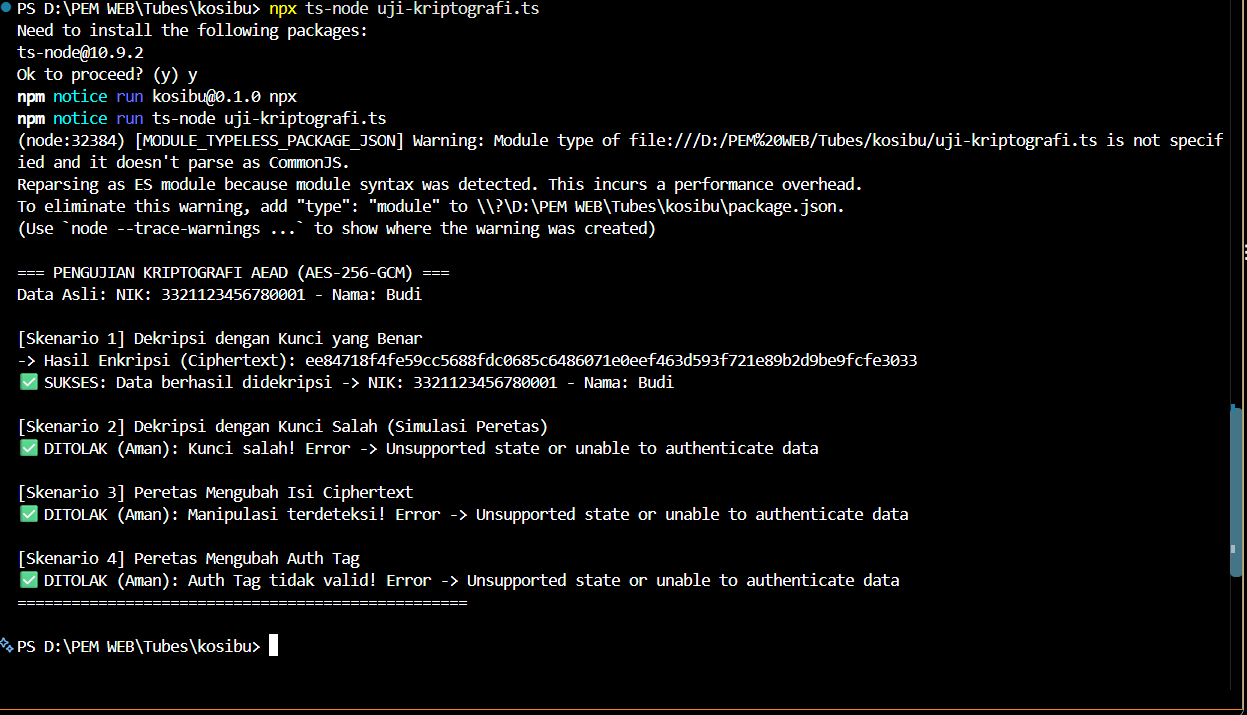
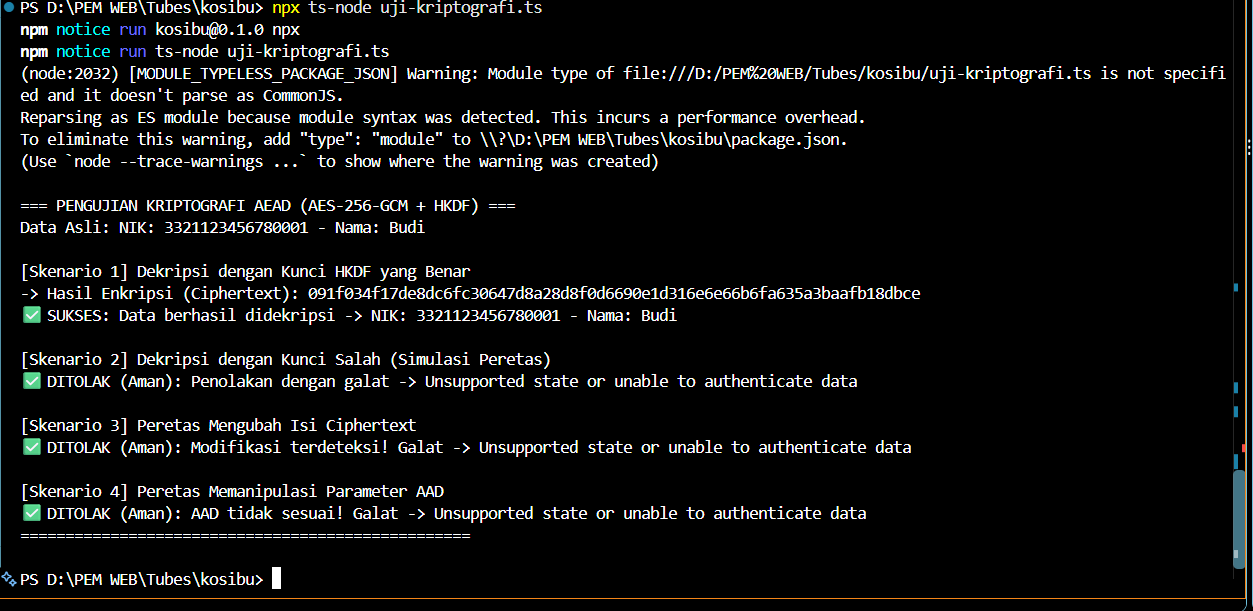
feat: penyelesaian Kriptografi Tugas 2 (AEAD, HKDF, uji skenario)

Changed region(s): [[0.0, 0.0, 1.0, 1.0], [0.0, 0.6841, 0.7314, 0.7463]]

diff --git a/uji-kriptografi.ts b/uji-kriptografi.ts
@@ -1,90 +1,108 @@
 import crypto from 'crypto';
 
-// 1. Persiapan Kunci (Harus 32 bytes / 256 bits untuk AES-256)
-const KUNCI_ASLI = crypto.randomBytes(32).toString('hex');
-const KUNCI_PALSU = crypto.randomBytes(32).toString('hex'); // Simulasi peretas menebak kunci
+// 1. Persiapan Kunci menggunakan CSPRNG
+// Di lingkungan produksi, nilai ini diambil dari process.env.MASTER_KEY
+const MASTER_KEY = crypto.randomBytes(32);
+const KUNCI_PALSU = crypto.randomBytes(32);
 
-// 2. Fungsi Enkripsi AEAD (AES-256-GCM)
-function enkripsi(teks: string, kunciHex: string) {
-  const kunci = Buffer.from(kunciHex, 'hex');
-  const iv = crypto.randomBytes(12); // Standar IV untuk GCM adalah 12 bytes
-  
-  const cipher = crypto.createCipheriv('aes-256-gcm', kunci, iv);
-  let terenkripsi = cipher.update(teks, 'utf8', 'hex');
-  terenkripsi += cipher.final('hex');
-  const authTag = cipher.getAuthTag();
-  
-  return {
-    iv: iv.toString('hex'),
-    terenkripsi: terenkripsi,
-    authTag: authTag.toString('hex')
-  };
+// 2. Fungsi Derivasi Kunci (HKDF) untuk Pemisahan Tujuan (Syarat Nilai K3)
+function dapatkanKunciTurunan(kunciMaster: Buffer, tujuan: string): Buffer {
+    // HKDF menggunakan SHA-256 untuk mengekstrak kunci 32-byte spesifik
+    const hasilHKDF = crypto.hkdfSync('sha256', kunciMaster, Buffer.alloc(0), tujuan, 32);
+    // Konversi ArrayBuffer ke Buffer agar TypeScript tidak protes
+    return Buffer.from(hasilHKDF);
 }
 
-// 3. Fungsi Dekripsi AEAD
-function dekripsi(data: { iv: string; terenkripsi: string; authTag: string }, kunciHex: string) {
-  const kunci = Buffer.from(kunciHex, 'hex');
-  const iv = Buffer.from(data.iv, 'hex');
-  const authTag = Buffer.from(data.authTag, 'hex');
-  
-  const decipher = crypto.createDecipheriv('aes-256-gcm', kunci, iv);
-  decipher.setAuthTag(authTag);
-  
-  let terdekripsi = decipher.update(data.terenkripsi, 'hex', 'utf8');
-  terdekripsi += decipher.final('utf8');
-  return terdekripsi;
+const KUNCI_ENKRIPSI = dapatkanKunciTurunan(MASTER_KEY, 'enkripsi-data-penyewa');
+const KUNCI_ENKRIPSI_PALSU = dapatkanKunciTurunan(KUNCI_PALSU, 'enkripsi-data-penyewa');
+
+// 3. Fungsi Enkripsi AEAD (AES-256-GCM) dengan Validasi dan Fail-Closed
+function enkripsi(teks: string, kunci: Buffer, aad: string = "konteks-kosibu") {
+    // Validasi Masukan (Fail-Closed)
+    if (!teks || typeof teks !== 'string' || teks.trim() === '') {
+        throw new Error("Masukan tidak valid: Teks harus berupa string dan tidak boleh kosong.");
+    }
+
+    const iv = crypto.randomBytes(12); // Nonce/IV unik dengan CSPRNG
+    const cipher = crypto.createCipheriv('aes-256-gcm', kunci, iv);
+    
+    // Menambahkan AAD
+    cipher.setAAD(Buffer.from(aad, 'utf8'));
+
+    let terenkripsi = cipher.update(teks, 'utf8', 'hex');
+    terenkripsi += cipher.final('hex');
+    const authTag = cipher.getAuthTag();
+
+    return {
+        iv: iv.toString('hex'),
+        terenkripsi: terenkripsi,
+        authTag: authTag.toString('hex'),
+        aad: aad
+    };
+}
+
+// 4. Fungsi Dekripsi AEAD
+function dekripsi(data: { iv: string; terenkripsi: string; authTag: string; aad: string }, kunci: Buffer) {
+    const iv = Buffer.from(data.iv, 'hex');
+    const authTag = Buffer.from(data.authTag, 'hex');
+
+    const decipher = crypto.createDecipheriv('aes-256-gcm', kunci, iv);
+    decipher.setAAD(Buffer.from(data.aad, 'utf8'));
+    decipher.setAuthTag(authTag);
+
+    let terdekripsi = decipher.update(data.terenkripsi, 'hex', 'utf8');
+    terdekripsi += decipher.final('utf8');
+    return terdekripsi;
 }
 
 // ==========================================
-// EKSEKUSI 4 SKENARIO PENGUJIAN
+// EKSEKUSI 4 SKENARIO PENGUJIAN (Syarat Nilai K4)
 // ==========================================
-console.log("\n=== PENGUJIAN KRIPTOGRAFI AEAD (AES-256-GCM) ===");
+console.log("\n=== PENGUJIAN KRIPTOGRAFI AEAD (AES-256-GCM + HKDF) ===");
 const dataSensitif = "NIK: 3321123456780001 - Nama: Budi";
 console.log("Data Asli:", dataSensitif);
 
 // Skenario 1: Normal (Sukses)
-console.log("\n[Skenario 1] Dekripsi dengan Kunci yang Benar");
-const dataAman = enkripsi(dataSensitif, KUNCI_ASLI);
+console.log("\n[Skenario 1] Dekripsi dengan Kunci HKDF yang Benar");
+const dataAman = enkripsi(dataSensitif, KUNCI_ENKRIPSI);
 console.log("-> Hasil Enkripsi (Ciphertext):", dataAman.terenkripsi);
 try {
-  const hasil = dekripsi(dataAman, KUNCI_ASLI);
-  console.log("✅ SUKSES: Data berhasil didekripsi ->", hasil);
+    const hasil = dekripsi(dataAman, KUNCI_ENKRIPSI);
+    console.log("✅ SUKSES: Data berhasil didekripsi ->", hasil);
 } catch (e) {
-  const error = e as Error;
-  console.log("❌ GAGAL:", error.message);
+    const error = e as Error;
+    console.log("❌ GAGAL:", error.message);
 }
 
 // Skenario 2: Kunci Salah (Eavesdropping)
 console.log("\n[Skenario 2] Dekripsi dengan Kunci Salah (Simulasi Peretas)");
 try {
-  dekripsi(dataAman, KUNCI_PALSU);
-  console.log("❌ BAHAYA: Data berhasil dibobol!");
+    dekripsi(dataAman, KUNCI_ENKRIPSI_PALSU);
+    console.log("❌ BAHAYA: Data berhasil dibobol!");
 } catch (e) {
-  const error = e as Error;
-  console.log("✅ DITOLAK (Aman): Kunci salah! Error ->", error.message);
+    const error = e as Error;
+    console.log("✅ DITOLAK (Aman): Penolakan dengan galat ->", error.message);
 }
 
 // Skenario 3: Manipulasi Teks (Tampering)
 console.log("\n[Skenario 3] Peretas Mengubah Isi Ciphertext");
-// Mengubah satu karakter saja pada teks yang dienkripsi
 const dataDimodifikasi = { ...dataAman, terenkripsi: dataAman.terenkripsi.substring(0, dataAman.terenkripsi.length - 1) + '0' };
 try {
-  dekripsi(dataDimodifikasi, KUNCI_ASLI);
-  console.log("❌ BAHAYA: Data termanipulasi berhasil lolos!");
+    dekripsi(dataDimodifikasi, KUNCI_ENKRIPSI);
+    console.log("❌ BAHAYA: Data termanipulasi berhasil lolos!");
 } catch (e) {
-  const error = e as Error;
-  console.log("✅ DITOLAK (Aman): Manipulasi terdeteksi! Error ->", error.message);
+    const error = e as Error;
+    console.log("✅ DITOLAK (Aman): Modifikasi terdeteksi! Galat ->", error.message);
 }
 
-// Skenario 4: Manipulasi Auth Tag
-console.log("\n[Skenario 4] Peretas Mengubah Auth Tag");
-// Mengubah satu karakter pada Auth Tag
-const tagDimodifikasi = { ...dataAman, authTag: dataAman.authTag.substring(0, dataAman.authTag.length - 1) + '0' };
+// Skenario 4: Modifikasi AAD (Additional Authenticated Data)
+console.log("\n[Skenario 4] Peretas Memanipulasi Parameter AAD");
+const aadDimodifikasi = { ...dataAman, aad: "konteks-berbeda" };
 try {
-  dekripsi(tagDimodifikasi, KUNCI_ASLI);
-  console.log("❌ BAHAYA: Tag termanipulasi berhasil lolos!");
+    dekripsi(aadDimodifikasi, KUNCI_ENKRIPSI);
+    console.log("❌ BAHAYA: AAD palsu berhasil lolos!");
 } catch (e) {
-  const error = e as Error;
-  console.log("✅ DITOLAK (Aman): Auth Tag tidak valid! Error ->", error.message);
+    const error = e as Error;
+    console.log("✅ DITOLAK (Aman): AAD tidak sesuai! Galat ->", error.message);
 }
 console.log("==================================================\n");

diff --git a/KEPUTUSAN.md b/KEPUTUSAN.md
@@ -1,24 +1,23 @@
-# Keputusan Desain Kriptografi: Implementasi AEAD
+# Keputusan Desain Kriptografi: Implementasi AEAD (Tugas 2)
 
-## Skenario Penggunaan
-Sistem manajemen Kosibu perlu menyimpan data sensitif calon penyewa, seperti Nomor Induk Kependudukan (NIK) atau nomor telepon. Data ini rentan terhadap dua jenis serangan utama:
-1. **Pencurian Data (Eavesdropping):** Pihak tidak berwenang membaca isi data.
-2. **Manipulasi Data (Tampering):** Pihak tidak berwenang memodifikasi isi data (misalnya, mengubah NIK atau nominal tagihan di *database*).
+## 1. Skenario Kebutuhan
+Sistem manajemen Kosibu menyimpan data sensitif calon penyewa, seperti Nomor Induk Kependudukan (NIK) dan data kontak. Data ini tidak boleh bocor ke publik (butuh Kerahasiaan) dan tidak boleh diubah oleh peretas di *database* (butuh Integritas).
 
-## Pemilihan Algoritma
-Untuk mengatasi kedua ancaman tersebut sekaligus, kami menggunakan enkripsi terautentikasi dengan data tambahan (AEAD - *Authenticated Encryption with Associated Data*). Algoritma yang dipilih adalah **AES-256-GCM** (Advanced Encryption Standard dengan mode Galois/Counter).
+## 2. Pemilihan Mekanisme & Perbandingan (K1)
+Mekanisme yang dipilih adalah enkripsi terautentikasi (AEAD) menggunakan **AES-256-GCM**.
+Alasan dan perbandingannya dengan mekanisme lain yang ada di aplikasi ini:
+*   **Enkripsi Terautentikasi (AEAD vs Enkripsi Biasa):** Enkripsi biasa (seperti AES-CBC) rentan terhadap modifikasi (*tampering*). AEAD (AES-GCM) mengatasi ini dengan menghasilkan *Ciphertext* sekaligus *Auth Tag*.
+*   **AEAD vs Hash Biasa:** Hash murni (seperti SHA-256) berguna memverifikasi integritas satu arah, namun tidak untuk kerahasiaan karena data aslinya tidak bisa dikembalikan.
+*   **AEAD vs Password Hashing:** Untuk kata sandi admin (yang belum dikerjakan di modul ini), kami akan menggunakan mekanisme khusus *Password Hashing* berbasis RAM yang lambat (Argon2/Bcrypt). AEAD tidak cocok untuk kata sandi karena prosesnya terlalu cepat (*brute-forceable*).
 
-## Alasan Pemilihan AES-256-GCM
-1. **Kerahasiaan dan Integritas Sekaligus:** Mode GCM tidak hanya mengenkripsi teks (*ciphertext*), tetapi juga menghasilkan *Authentication Tag*. Jika ada 1 bit saja dari data yang diubah oleh peretas, proses dekripsi akan langsung menolak dan menggagalkan operasi tersebut (mencegah *tampering*).
-2. **Kinerja Tinggi:** AES-GCM didukung oleh akselerasi perangkat keras (*hardware acceleration*) di sebagian besar prosesor modern, membuatnya jauh lebih cepat dibandingkan mode enkripsi lainnya secara komputasi.
-3. **Standar Keamanan Industri:** Menjadi standar yang direkomendasikan oleh NIST dan diadopsi secara luas pada protokol aman seperti TLS 1.3.
+## 3. Dokumentasi Parameter & Kunci (K2 & K3)
+*   **Panjang Kunci (Master Key):** 32 bytes (256 bits), dibangkitkan dengan CSPRNG (`crypto.randomBytes`) dan disimpan sebagai variabel environment di luar repositori (`.env`).
+*   **Key Derivation (HKDF):** Untuk keamanan maksimal, *Master Key* tidak dipakai langsung. Kami menggunakan HKDF (*HMAC-based Extract-and-Expand Key Derivation Function*) untuk menurunkan kunci spesifik.
+*   **IV (Initialization Vector) / Nonce:** 12 bytes yang unik (CSPRNG) untuk setiap operasi enkripsi.
+*   **AAD (Additional Authenticated Data):** Parameter untuk melindungi konteks tambahan yang tidak dienkripsi tetapi diautentikasi.
+*   **Tag:** *Auth Tag* 16 bytes untuk menjamin integritas teks.
 
-## Komponen Kriptografi
-- **Key (Kunci Rahasia):** Kunci simetris 256-bit yang harus disimpan secara aman di variabel lingkungan (*environment variables*).
-- **IV (Initialization Vector):** Vektor inisialisasi acak sebesar 12 *bytes* yang dihasilkan unik setiap kali enkripsi dilakukan untuk memastikan hasil *ciphertext* selalu berbeda meskipun pesannya sama.
-- **Auth Tag:** Tag autentikasi 16 *bytes* yang memverifikasi bahwa data tidak rusak atau diubah secara ilegal.
-
-## Hasil Pengujian Skenario
-Berikut adalah bukti eksekusi 4 skenario pengujian AEAD (Keberhasilan Dekripsi, Simulasi Kunci Salah, dan Modifikasi Data):
+## 4. Penanganan Masukan (Fail-Closed)
+Setiap masukan teks ke fungsi kriptografi divalidasi terlebih dahulu (memastikan tipe datanya *string* dan tidak kosong). Jika terjadi galat dekripsi atau validasi, sistem mengadopsi prinsip gagal tertutup (*fail-closed*) dengan langsung melemparkan *error* tanpa membocorkan status sensitif ke pengguna akhir.
 
 ![Bukti Kriptografi](docs/bukti-kriptografi.png)

diff --git a/AI_LOG.md b/AI_LOG.md
@@ -5,3 +5,13 @@
 * **Ringkasan perintah (Prompt):** "Bantu saya membuat 10 threat STRIDE dan 5 risiko prioritas berdasarkan DFD aplikasi web Next.js Kosibu yang sudah dibuat sebelumnya."
 * **Bagian yang dipakai/diubah:** Seluruh tabel STRIDE dan Risk Register diadaptasi dari draf AI, kemudian ditinjau ulang agar sesuai dengan komponen nyata di dalam proyek (seperti penyesuaian aset Next.js dan DFD Kosibu).
 * **Cara memeriksa kebenaran:** Meninjau kembali referensi materi Pekan 3 (Threat Modeling) dan memastikan setiap ancaman yang dihasilkan AI benar-benar merujuk pada panah dan komponen di dalam diagram.
+
+---
+
+# Log Penggunaan AI (Kriptografi - Tugas 2)
+
+- **Alat yang Digunakan:** Google Gemini AI.
+- **Tujuan Penggunaan:** Membantu memahami implementasi fungsi `crypto` Node.js untuk mode AEAD (AES-256-GCM), membangkitkan kunci menggunakan HKDF, dan menyusun skenario penolakan gagal tertutup.
+- **Ringkasan Perintah (Prompt):** "Bantu saya membuat skrip pengujian AES-256-GCM menggunakan modul crypto Node.js lengkap dengan derivasi kunci HKDF dan 4 skenario pembuktian penolakan."
+- **Bagian yang Dipakai/Diubah:** Implementasi fungsi enkripsi/dekripsi AEAD beserta metode `.setAAD()` dan `hkdfSync` dari AI diadaptasi ke dalam fail `uji-kriptografi.ts` dan disesuaikan dengan konteks proyek Kosibu.
+- **Cara Memeriksa Kebenaran:** Melakukan eksekusi skrip secara lokal di terminal dan memastikan bahwa skenario modifikasi data atau kunci yang salah secara konsisten ditolak (error) sesuai prinsip gagal tertutup (*fail-closed*).
